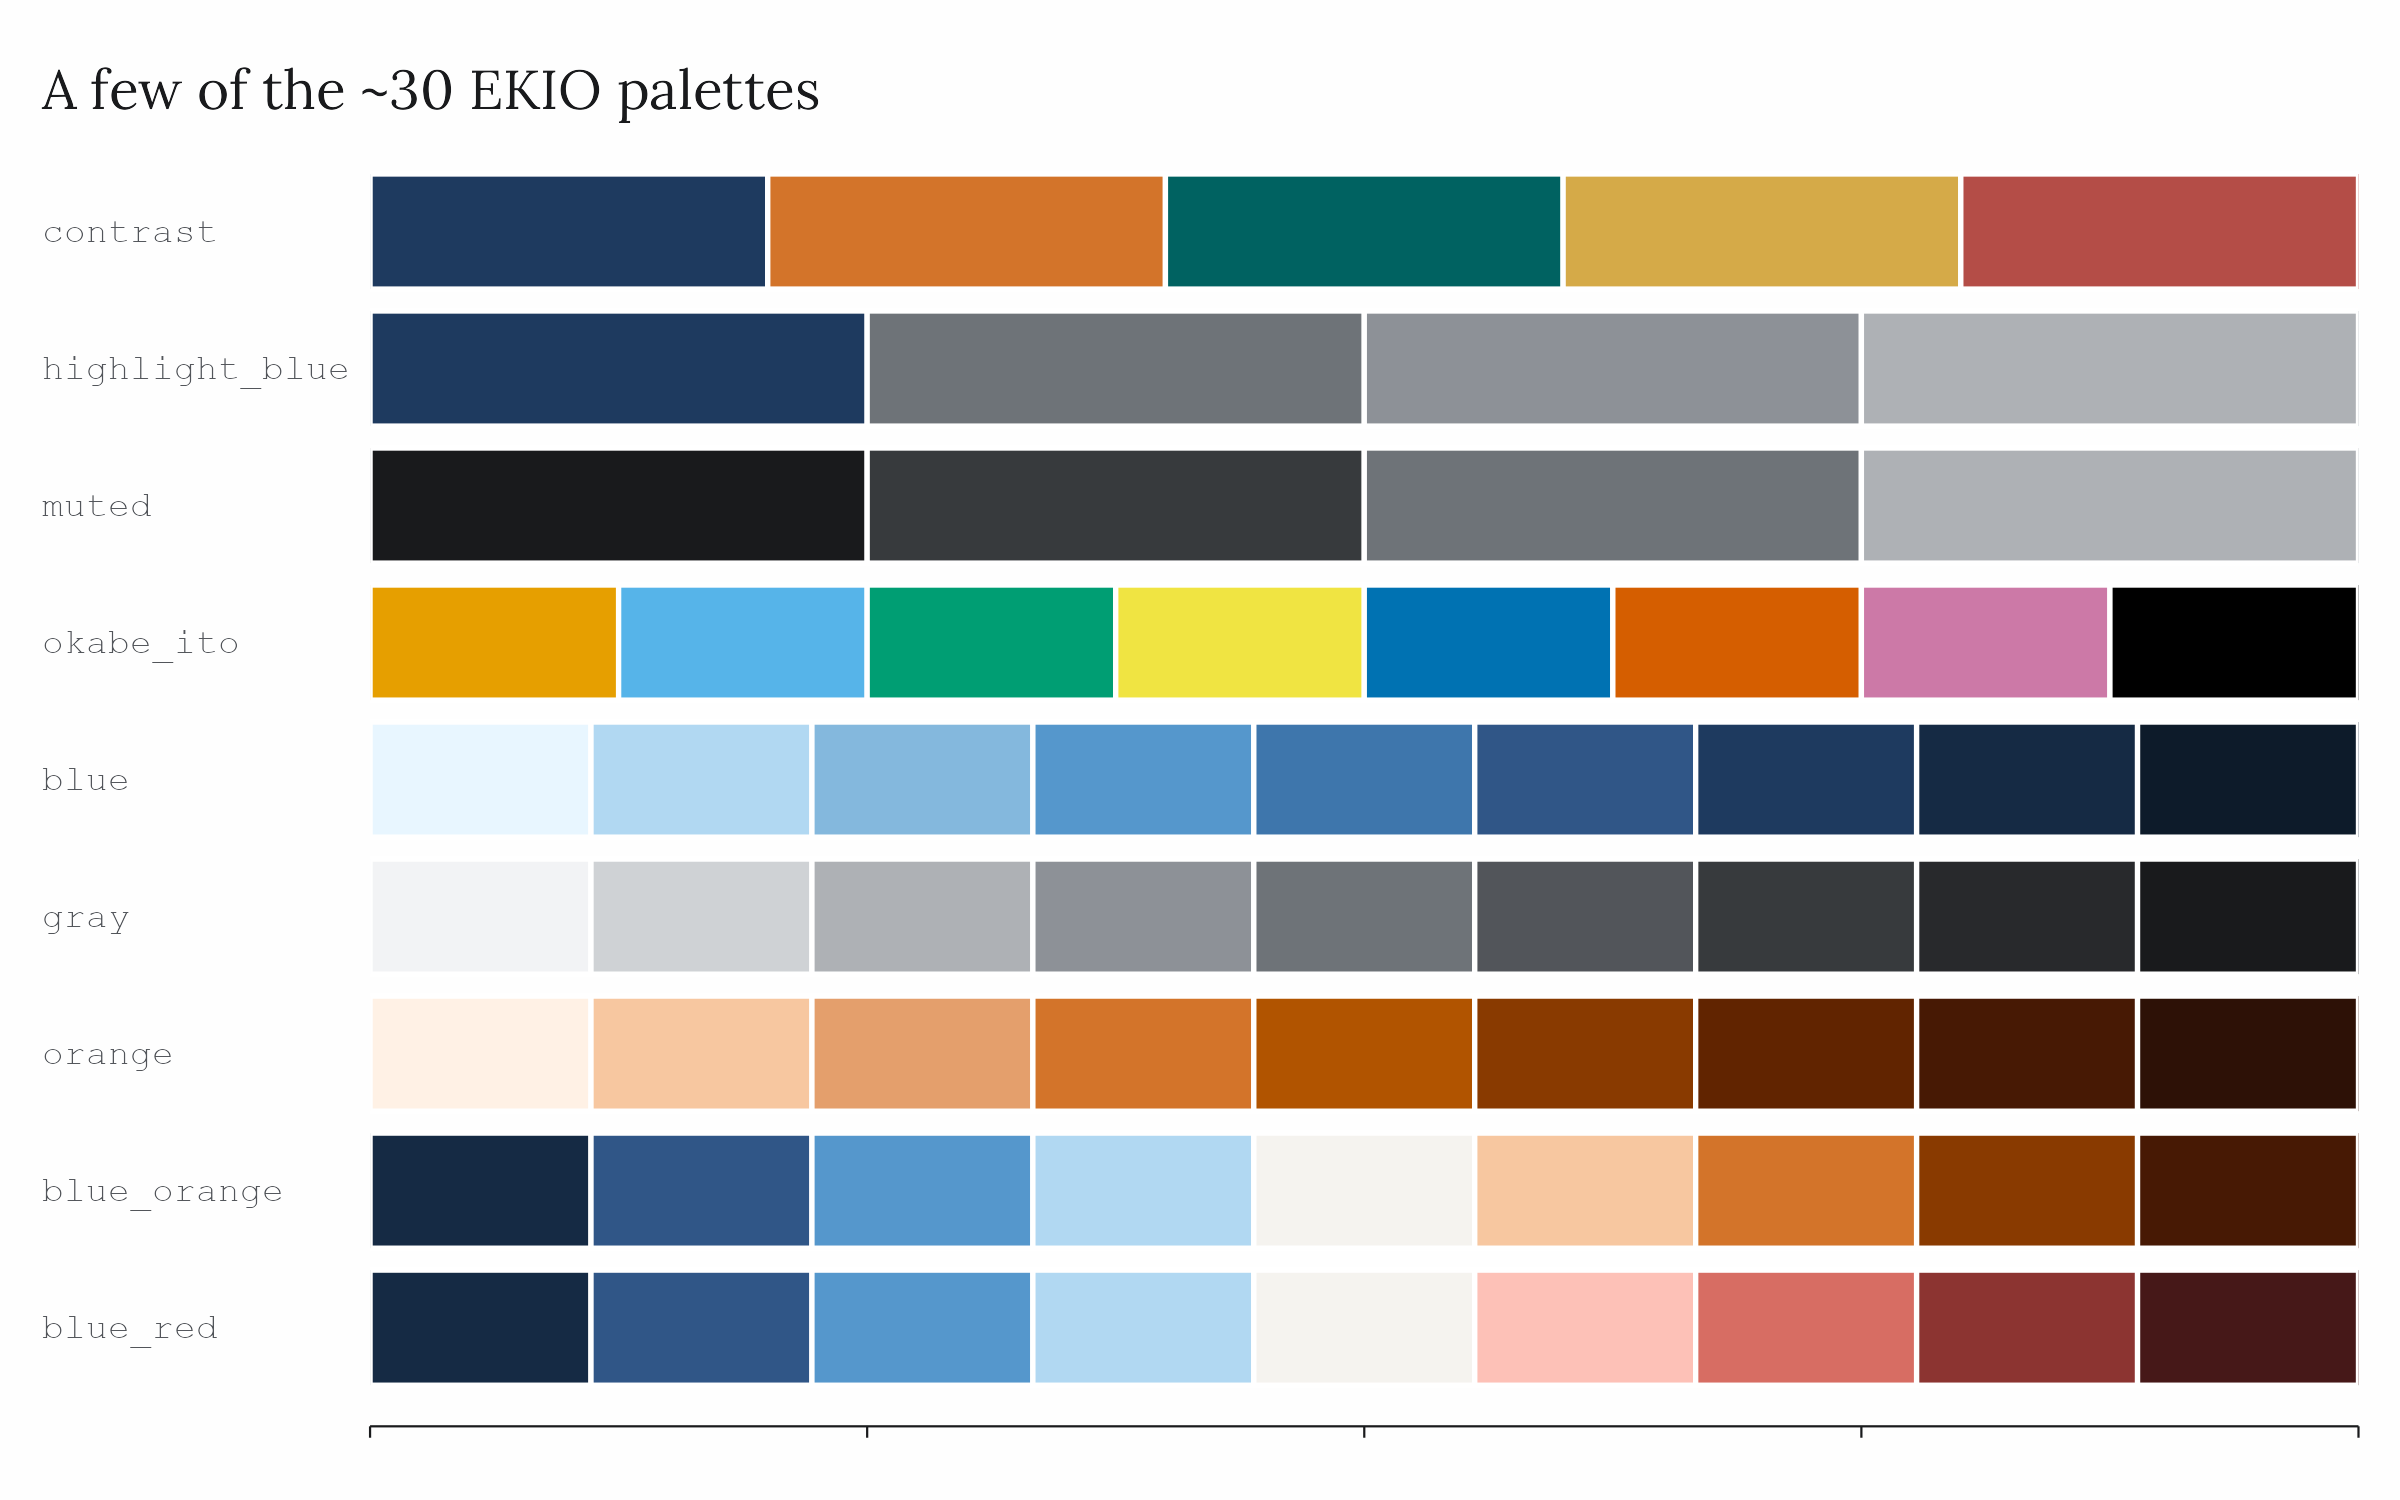
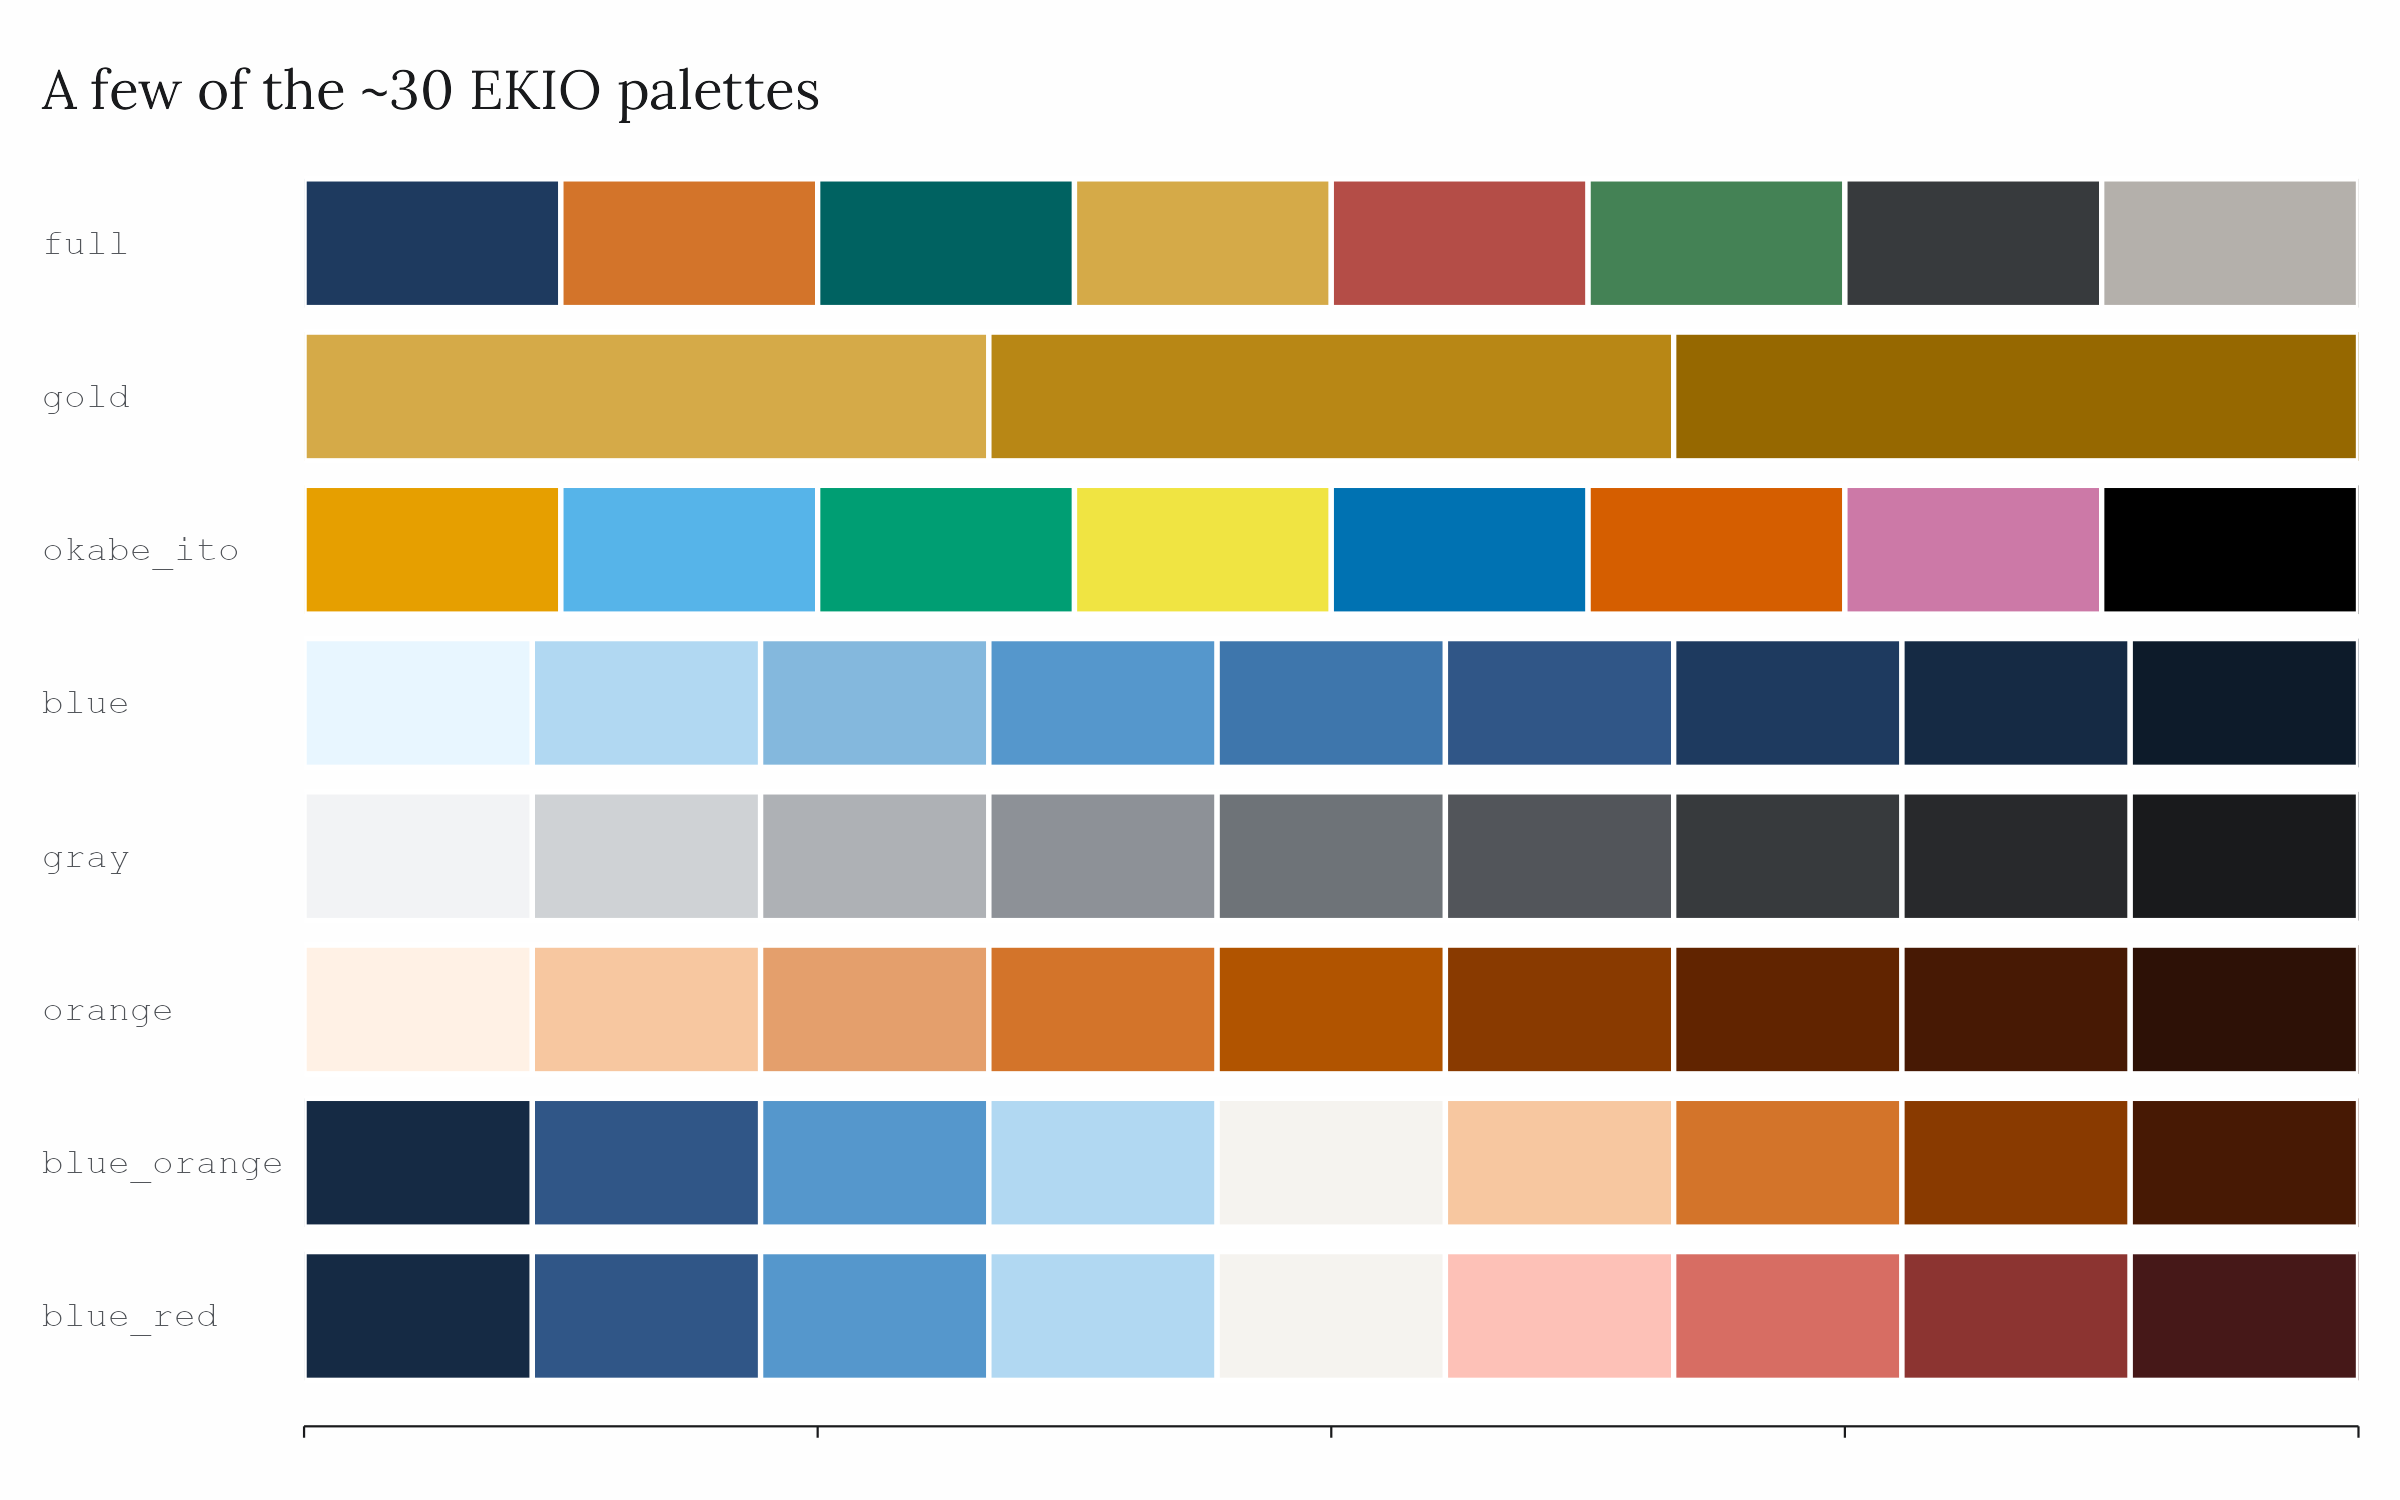
docs: align guides with the simplified API

diff --git a/NEWS.md b/NEWS.md
@@ -26,24 +26,21 @@
   surface at 4.75:1, where it previously sat at 2.1:1 and failed. This is the
   color `theme_ekio()` uses for muted text.
 
-* `contrast` returns five colors rather than six, and each sits on its own
-  rung of the spine so the palette survives grayscale and deuteranopia.
-  `full` still returns eight, but past five categories it separates by hue
-  rather than lightness.
+* The categorical palette set now contains only `full`; the highlight and
+  small-group palette groups have been removed.
 
 * Diverging palettes return nine colors rather than eleven. Both arms step
   through the even shades, so the halves carry equal weight rung for rung.
+
+* `ekio_areaplot()`, `ekio_barplot()` and `ekio_histogram()` no longer accept
+  `add_zero`; `ekio_lineplot()` and `ekio_scatterplot()` retain the argument.
+
+* Removed the `verbose` argument from `list_ekio_palettes()`.
 
 * `theme_ekio()` draws grid lines in `gray.200` rather than `gray.300`,
   following the ramp's new spacing.
 
 ## New features
-
-* Added the `highlight` palette group: `highlight_blue`, `highlight_orange`,
-  `highlight_teal` and `highlight_red`, each one accent against three
-  receding grays. Order the factor so the level to emphasise comes first.
-
-* Added the `muted_warm` palette, the `muted` gray series in `stone`.
 
 * Added `basic.pivot`, the neutral shared by the diverging palettes.
 
@@ -51,7 +48,7 @@
   shade: `gold.light` and `basic.pivot` resolve by the same rule as
   `blue.700`.
 
-* `list_ekio_palettes()` accepts `type = "accent"` and `type = "highlight"`.
+* `list_ekio_palettes()` accepts `type = "accent"`.
 
 ## Color provenance
 
@@ -73,7 +70,7 @@
 ## Breaking changes
 
 * `show_all_ekio_palettes()` is removed. It was deprecated in 0.5.1; use
-  `list_ekio_palettes(verbose = TRUE)` instead.
+  `list_ekio_palettes()` to inspect available palette names instead.
 
 * `theme_ekio()` draws on off-white (`#FEFEFE`) rather than the `gray.100`
   brand tint (`#F7FAFC`). Every plot changes appearance. Pass
@@ -170,9 +167,8 @@ A maintenance release: bug fixes and cleanup, no API changes.
   through the `grid` argument.
 
 * `%||%` is imported from rlang. It was previously resolved from base R,
-  which only gained the operator in 4.4.0, so `scale_color_ekio_c()` and
-  `list_ekio_palettes(verbose = TRUE)` failed on the R 4.1–4.3 that
-  `Depends` claimed to support.
+  which only gained the operator in 4.4.0, so `scale_color_ekio_c()` failed
+  on the R 4.1–4.3 that `Depends` claimed to support.
 
 ## Dependencies
 
@@ -233,11 +229,8 @@ below before upgrading.
   legend; most of what a map needs (`coord_sf(expand = FALSE)`, colorbar
   sizing) cannot be expressed in a theme object.
 
-* `gt_theme_ekio()` has moved to the companion package
-  [ekiotable](https://github.com/viniciusoike/ekiotable). It reads brand
-  tokens from this package via `ekio_pal()`, so tables and charts stay in
-  sync without duplicating color definitions. `gt` is no longer a dependency
-  of ekioplot.
+* `gt_theme_ekio()` is no longer part of `ekioplot`; `gt` is no longer a
+  dependency of the package.
 
 * For sequential and diverging palettes, `n` now interpolates across the
   whole ramp instead of returning the `n` lightest colors.
@@ -303,9 +296,6 @@ below before upgrading.
 
 ## New features
 
-* `list_ekio_palettes()` gains a `verbose` argument that prints a formatted
-  summary of the selected palette type(s).
-
 * `ekio_pal()` now returns an object of class `ekio_palette`, a character
   vector with a custom print method that automatically displays a color
   swatch in interactive sessions. This replaces the need for a separate
@@ -315,8 +305,8 @@ below before upgrading.
 ## Deprecations
 
 * `show_all_ekio_palettes()` is deprecated in favor of
-  `list_ekio_palettes(verbose = TRUE)`. It still works but warns once per
-  session, and is no longer listed on the pkgdown reference index.
+  `list_ekio_palettes()`. It still works but warns once per session, and is
+  no longer listed on the pkgdown reference index.
 
 * `show_ekio_palette()` is deprecated in favor of
   `ekio_pal()` (which auto-displays a swatch on print). It still works
@@ -354,13 +344,9 @@ below before upgrading.
 
 ## Breaking changes
 
-* Removed `run_palette_lab()` and the bundled Shiny app. The Palette Lab now
-  lives in its own repository
-  (<https://github.com/viniciusoike/ekioplot-palette-lab>) and runs entirely in
-  the browser at <https://viniciusoike.github.io/ekioplot-palette-lab/>. This
-  drops 8 app-only `Suggests` (`bslib`, `colorspace`, `colourpicker`,
-  `forcats`, `ggbump`, `patchwork`, `shiny`, `stringr`), leaving `ekioplot` a
-  lean visualization package.
+* Removed the bundled Shiny app, dropping 8 app-only `Suggests` (`bslib`,
+  `colorspace`, `colourpicker`, `forcats`, `ggbump`, `patchwork`, `shiny`,
+  `stringr`) and leaving `ekioplot` a lean visualization package.
 
 # ekioplot 0.3.1
 

diff --git a/CLAUDE.md b/CLAUDE.md
@@ -1,7 +1,7 @@
 # CLAUDE.md - Project Context
 
 ## Project: ekioplot
-R package implementing EKIO's visual identity system for ggplot2. Table styling lives in the companion `ekiotable` package.
+R package implementing EKIO's visual identity system for ggplot2.
 
 ## Description
 A comprehensive R package that provides EKIO-branded themes, color palettes, scale functions and high-level "recipe" chart functions for professional data visualizations. Follows EKIO design principles of clarity, purposeful color usage, and professional presentation standards.
@@ -15,7 +15,7 @@ This package is EKIO's single source of truth for brand color and type. Downstre
 - **Token references**: a palette member is a literal hex, a `scale.shade` (`blue.700`), or a `group.name` pointing at a named token group (`gold.light`, `basic.pivot`). Any palette written as a YAML mapping rather than a sequence becomes such a group. Scales win on name collision.
 - **Generated, not hand-picked**: the scales come from one OKLCH spec in `data-raw/build-ramps.R` — a shared lightness spine (pinned so `blue.700` is the brand navy), a shared chroma arc, and a hue path plus chroma budget per family. `data-raw/palettes.R` checks the YAML hex against the spec and refuses to build on drift. To change a color, edit the spec, rerun `Rscript data-raw/build-ramps.R`, paste the block into the YAML, then rerun `data-raw/palettes.R`. Never hand-edit a scale.
 - **What the spine buys**: shade number means one visual weight in every family, so `blue.500` and `orange.500` are interchangeable. Shade `500` clears WCAG AA on the off-white surface in all seven scales. Both properties are asserted at build time and in `tests/testthat/test-palette-data.R`.
-- **Categorical palettes vary shade on purpose**: equal lightness balances hues but makes them hard to tell apart, so each series in `contrast` sits on its own rung. `contrast` (5) survives grayscale and deuteranopia; `full` (8) separates by hue past five categories and does not.
+- **Categorical palettes vary shade on purpose**: `full` (8) separates by hue past five categories, so it does not survive grayscale printing
 - **Surfaces**: the `basic` token group, not a scale — `offwhite` = `#FEFEFE` (the `theme_ekio()` default background), `white` = `#FFFFFF`, `pivot` = `#F5F3EF` (the diverging midpoint), `black` = `#000000`. The `gray.100` tint (`#F2F3F5`) is reachable as `theme_ekio(background = "gray")`. White, offwhite and black are the only hand-set hex in the package; the pivot is generated with the scales. `basic` is internal to `.ekio()` and deliberately absent from `ekio_pal()` and `list_ekio_palettes()`; the `accent` group, by contrast, is user-facing
 - **Type — web (ekio-site)**: Lora (serif display/headings), Lato (body), Fira Code (mono).
 
@@ -32,7 +32,7 @@ This package is EKIO's single source of truth for brand color and type. Downstre
 - **utils.R** — Package-level `@importFrom` tags only
 
 ### Key Design Decisions
-- **Unified palette access**: All palette types (accent, categorical, highlight, small-group, scientific, sequential, diverging) go through `ekio_pal()`. Sequential/diverging palettes are also usable in continuous scales
+- **Unified palette access**: All palette types (accent, categorical, scientific, sequential, diverging) go through `ekio_pal()`. Sequential/diverging palettes are also usable in continuous scales
 - **Smart aesthetic detection**: Recipe functions use `rlang::enquo()` + internal `.detect_aesthetic_type()` to distinguish between missing args, static color strings, and variable mappings — auto-selecting appropriate scales
 - **One recipe layer builder**: recipes do not branch on the aesthetic type themselves. `.resolve_aes()` detects the type, applies the recipe's continuous policy and settles the palette; `.recipe_layer()` builds the `ggplot() + geom_*()` call and attaches the scale. Each recipe only supplies its base aesthetics, geom and geom arguments. Adding a recipe means calling these, not copying a branch tree
 - **Continuous policy per chart**: `.resolve_aes(continuous = )` is `"reject"` for histogram, line, bar and area (a continuous color/fill errors, pointing at `factor()` or binning) and `"warn"` for scatter. Change the policy at the call site, never with an ad-hoc `if`
@@ -63,4 +63,4 @@ This package is EKIO's single source of truth for brand color and type. Downstre
 
 ## General observations
 - After making changes, run `check()` and fix only errors and warnings. Ignore notes
-- The Palette Lab Shiny app is retired. Its repository (`viniciusoike/ekioplot-palette-lab`) is archived and its site is down; it targeted pre-1.0.0 brand colors. The palette gallery in `vignettes/articles/palettes.Rmd` is the reference for browsing palettes. Do not revive it
+- The palette gallery in `vignettes/articles/palettes.Rmd` is the reference for browsing palettes.

diff --git a/README.md b/README.md
@@ -24,7 +24,7 @@ library(ggplot2)
 
 ggplot(mtcars, aes(wt, mpg, color = factor(cyl))) +
   geom_point(size = 3) +
-  scale_color_ekio_d("contrast") +
+  scale_color_ekio_d("full") +
   labs(
     title = "Fuel Efficiency vs. Weight",
     subtitle = "Motor Trend Car Road Tests (1974)",
@@ -35,7 +35,7 @@ ggplot(mtcars, aes(wt, mpg, color = factor(cyl))) +
   theme_ekio()
 ```
 
-<img src="man/figures/README-hero.png" width="100%" alt="Scatter plot of fuel economy against weight for the mtcars data, points coloured by cylinder count with the contrast palette, drawn in theme_ekio()." />
+<img src="man/figures/README-hero.png" width="100%" alt="Scatter plot of fuel economy against weight for the mtcars data, points coloured by cylinder count with the full palette, drawn in theme_ekio()." />
 
 ## Installation
 
@@ -66,7 +66,7 @@ theme_ekio(grid = "xy")
 
 ## Color palettes
 
-ekioplot ships palettes across seven groups, all accessible through a
+ekioplot ships palettes across five groups, all accessible through a
 single function. The seven brand scales are generated from one OKLCH
 specification, so a given shade carries the same visual weight in every
 family.
@@ -75,7 +75,7 @@ family.
 ekio_pal()
 ```
 
-<img src="man/figures/README-palettes.png" width="100%" alt="Nine EKIO palettes drawn as horizontal colour strips, one row each: the categorical, highlight, muted, scientific, sequential and diverging groups." />
+<img src="man/figures/README-palettes.png" width="100%" alt="Eight EKIO palettes drawn as horizontal colour strips, one row each, from the accent, categorical, scientific, sequential and diverging groups." />
 
 ## Scales
 
@@ -83,8 +83,8 @@ Discrete and continuous scales are provided for both `color` and `fill`.
 
 ``` r
 # Discrete (categorical palettes)
-scale_color_ekio_d("contrast")
-scale_fill_ekio_d("cool")
+scale_color_ekio_d("full")
+scale_fill_ekio_d("full")
 
 # Continuous (sequential / diverging palettes)
 scale_color_ekio_c("blue")
